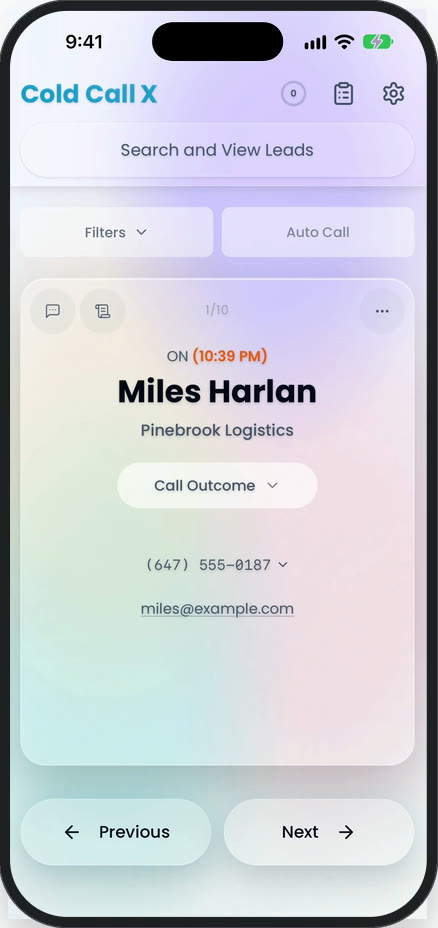
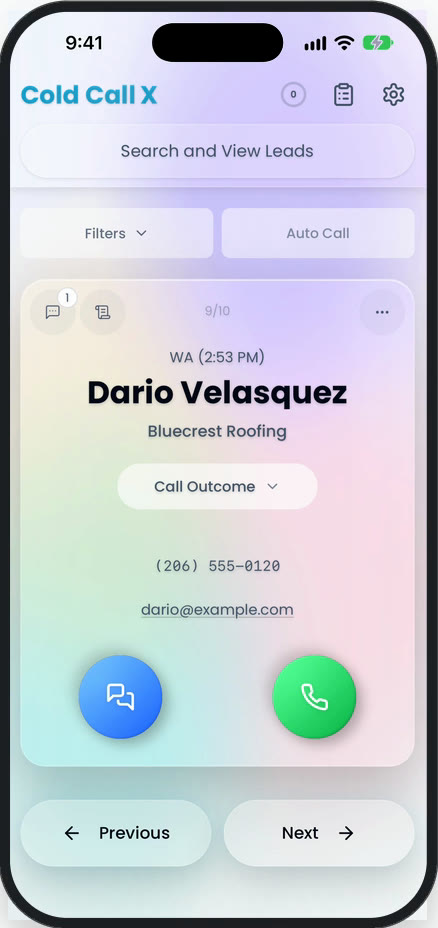
Centre the giveaway band and show the call buttons in the hero
The giveaway read like more hero text. It is now centred on a light wash
of the icon's two colours, under a "2.0 launch giveaway" tag, with larger
type and a bigger Claim button. The Apple sponsor line is gone; the fine
print keeps only what a winner needs to know.

The hero phone was cut from a frame where the lead card had no message or
call buttons. It is now a settled frame from the Call, Mark the Outcome
film with the whole card showing.

diff --git a/site.css b/site.css
@@ -210,50 +210,80 @@ body.site {
 }
 
 /* 2.0 launch giveaway band. index.html keeps it hidden until the giveaway
-   worker says codes are left. */
+   worker says codes are left. Centred on a wash of the brand's two colours
+   so it reads as an announcement, not as part of the hero. */
 .gift {
-  background: var(--surface);
+  background:
+    linear-gradient(90deg, rgba(41, 169, 236, 0.14), rgba(243, 145, 58, 0.14)),
+    var(--surface);
   border-bottom: 1px solid var(--hairline);
+  text-align: center;
 }
 
 .gift [hidden] { display: none !important; }
 
-.gift__inner { padding-top: 14px; padding-bottom: 14px; }
+.gift__inner { padding-top: 26px; padding-bottom: 24px; }
+
+.gift__tag {
+  display: inline-block;
+  margin: 0 0 12px;
+  padding: 4px 12px;
+  border-radius: 980px;
+  background: linear-gradient(90deg, #29a9ec, #f3913a);
+  color: #fff;
+  font-size: 12px;
+  font-weight: 600;
+  letter-spacing: 0.04em;
+  text-transform: uppercase;
+}
 
 .gift__row {
   display: flex;
-  flex-wrap: wrap;
+  flex-direction: column;
   align-items: center;
-  justify-content: space-between;
-  gap: 12px 24px;
+  gap: 16px;
 }
 
-.gift__text { margin: 0; font-size: 15px; line-height: 1.45; color: var(--body); }
+.gift__text {
+  margin: 0;
+  max-width: 36em;
+  font-size: 18px;
+  line-height: 1.45;
+  color: var(--body);
+  text-wrap: balance;
+}
+
 .gift__text strong { color: var(--ink); font-weight: 600; }
 
-.gift__action { display: flex; flex-wrap: wrap; align-items: center; gap: 10px 14px; }
+.gift__action {
+  display: flex;
+  flex-wrap: wrap;
+  justify-content: center;
+  align-items: center;
+  gap: 10px 16px;
+}
 
 .gift__left {
   display: inline-flex;
   align-items: center;
   gap: 8px;
-  font-size: 13px;
-  color: var(--muted);
+  font-size: 14px;
+  color: var(--body);
   font-variant-numeric: tabular-nums;
   white-space: nowrap;
 }
 
-.gift__pips { display: inline-flex; gap: 4px; }
-.gift__pips i { width: 8px; height: 8px; border-radius: 50%; background: linear-gradient(135deg, #29a9ec, #f3913a); }
+.gift__pips { display: inline-flex; gap: 5px; }
+.gift__pips i { width: 10px; height: 10px; border-radius: 50%; background: linear-gradient(135deg, #29a9ec, #f3913a); }
 .gift__pips i.is-gone { background: var(--hairline-strong); }
 
 .gift__btn {
-  padding: 7px 16px;
+  padding: 10px 22px;
   border: 0;
   border-radius: 980px;
   background: var(--ink);
   color: #fff;
-  font: 500 14px/1.2 var(--font);
+  font: 600 15px/1.2 var(--font);
   white-space: nowrap;
   cursor: pointer;
 }
@@ -261,24 +291,29 @@ body.site {
 .gift__btn:hover { background: #000; }
 .gift__btn:disabled { opacity: 0.5; cursor: default; }
 .gift__btn:focus-visible { outline: 2px solid var(--focus); outline-offset: 2px; }
-.gift__btn--quiet { background: var(--fill); color: var(--ink); }
-.gift__btn--quiet:hover { background: #e6e6eb; }
+.gift__btn--quiet { background: var(--surface); color: var(--ink); box-shadow: inset 0 0 0 1px var(--hairline); }
+.gift__btn--quiet:hover { background: var(--fill); }
 
 .site .gift__code {
-  padding: 8px 12px;
+  padding: 10px 14px;
   border: 1px solid var(--hairline);
-  border-radius: 10px;
-  background: var(--bg);
+  border-radius: 12px;
+  background: var(--surface);
   color: var(--ink);
-  font: 600 17px/1 ui-monospace, SFMono-Regular, Menlo, monospace;
-  letter-spacing: 0.06em;
+  font: 600 20px/1 ui-monospace, SFMono-Regular, Menlo, monospace;
+  letter-spacing: 0.08em;
   user-select: all;
 }
 
 .gift__status,
-.gift__fine { margin: 8px 0 0; font-size: 12px; color: var(--muted); }
-.gift__status { color: var(--ink); font-size: 13px; }
+.gift__fine { margin: 12px auto 0; max-width: 40em; font-size: 12px; color: var(--muted); }
+.gift__status { color: var(--ink); font-size: 14px; }
 .gift__status:empty { display: none; }
+
+@media (max-width: 640px) {
+  .gift__inner { padding-top: 22px; padding-bottom: 20px; }
+  .gift__text { font-size: 16px; }
+}
 
 /* Tutorials sit on the films' own closing colour, so the section reads as a
    change of scene and the light player stands out. */

diff --git a/index.html b/index.html
@@ -135,6 +135,7 @@
          Loading codes and ending it: giveaway-worker/README.md -->
     <aside class="gift" data-giveaway data-api="https://coldcallx-giveaway.vadykk.workers.dev" aria-label="2.0 launch giveaway" hidden>
       <div class="wrap gift__inner">
+        <p class="gift__tag">2.0 launch giveaway</p>
         <div class="gift__row" data-offer>
           <p class="gift__text"><strong>Cold Call X 2.0 is here.</strong> To celebrate, we’re giving away three free copies. First come, first served.</p>
           <div class="gift__action">
@@ -151,7 +152,7 @@
           </div>
         </div>
         <p class="gift__status" data-status role="status" aria-live="polite"></p>
-        <p class="gift__fine">Each code works once and expires four weeks after it was made. Apple is not a sponsor of this giveaway.</p>
+        <p class="gift__fine">Each code works once and expires four weeks after it was made.</p>
       </div>
     </aside>
 
